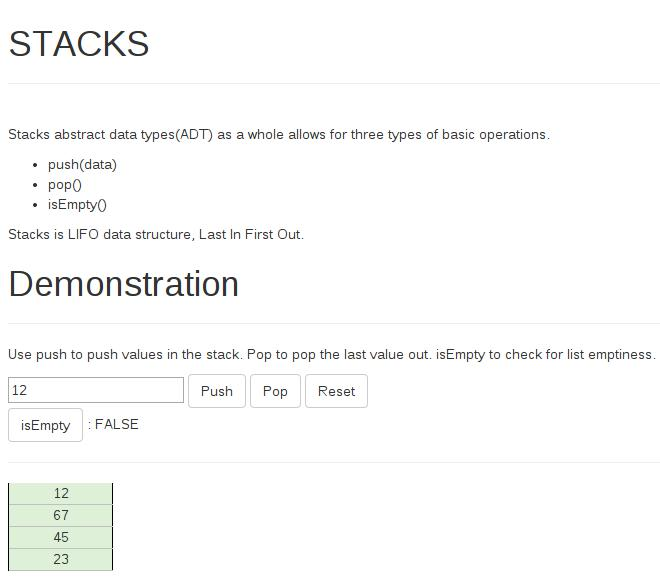
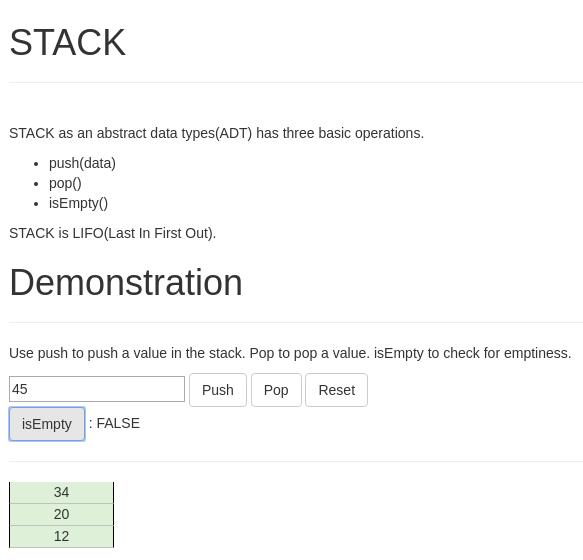
Add more info in README file, fix typos in mongo-stack.html, add a new image for stack-mongo.jpg

diff --git a/mongo-stack/mongo-stack.html b/mongo-stack/mongo-stack.html
@@ -1,6 +1,5 @@
 <head>
   <title>mongo-stack</title>
-  
   <link href="//maxcdn.bootstrapcdn.com/bootstrap/3.3.1/css/bootstrap.min.css" rel="stylesheet">
 </head>
 
@@ -9,46 +8,45 @@
 </body>
 
 <template name="example">
-	
-  <h1>STACKS</h1>
+
+  <h1>STACK</h1>
   <hr>
   <br>
-  Stacks abstract data types(ADT) as a whole allows for three types of basic operations.
-  
+  STACK as an abstract data types(ADT) has three basic operations.
+
   <p style="indent: 15px;">
-	<ul>
-		<li>push(data)</li>
-		<li>pop()</li>
-		<li>isEmpty()</li>
-	</ul>
+  <ul>
+    <li>push(data)</li>
+    <li>pop()</li>
+    <li>isEmpty()</li>
+  </ul>
   </p>
-  
+
   <p>
-  Stacks is LIFO data structure, Last In First Out.
+  STACK is LIFO(Last In First Out).
   </p>
-  
+
   <h1>Demonstration</h1>
   <hr>
-  <p>Use push to push values in the stack. Pop to pop the last value out. isEmpty to check for
-  list emptiness.
+  <p>Use push to push a value in the stack. Pop to pop a value. isEmpty to check for emptiness.
   </p>
-  
+
   <input type="input" id="pushValue" />   
   <input type="button" class="btn btn-default"  id="push" value="Push"/>
   <input type="button" class="btn btn-default"  id="pop" value="Pop"/>
   <input type="button"  class="btn btn-default" id="reset" value="Reset"/>
-  
+
   <br>
   <input type="button" class="btn btn-default"  id="isEmpty" value="isEmpty"/>
   : <span id="isEmptyStatus"> </span>
   <br>
-  
+
   <!--
-  <input type="button" class="btn btn-default" type="button" id="peek" value="Peek"/>
-  :<span id="peekValue"> </span>
+    <input type="button" class="btn btn-default" type="button" id="peek" value="Peek"/>
+    :<span id="peekValue"> </span>
   -->
 
- 
+
   <hr>
   {{>printStack}}
 </template>

diff --git a/README.md b/README.md
@@ -16,3 +16,18 @@ Plot of interval time of insertion of each element using ...
  java.kumar116.LinkedList | java.util.LinkedList
 :--------------------------------------------------:|:-----------------------------------------------------:
 ![Plot of LinkedList when using simple O(1) insertion](https://github.com/kumar116/cs251/blob/master/archive/LinkedList/plot_ll_loop.png?raw=true "Plot of LinkedList when using simple O(1) insertion") | ![Plot of LinkedList when using java.util's LinkedList](https://github.com/kumar116/cs251/blob/master/archive/LinkedList/plot_ll_java.png?raw=true "Plot of LinkedList when using java.util's LinkedList")
+
+##Stack
+
+**Usage**
++ push(T data) - Add any generic data to the stack
++ pop() - Get and remove the data at the top
++ size() - Returns the size of the stack/Can be used to find if the Stack is empty.
+
+**Notes**
+
+NoSQL database(for example MongoDB) can be used to store and make any kind of data structure, but what can it be used for ?
+
+To try a demonstration, do meteor run inside mongo-stack folder.
+
+![Mongo Stack](https://github.com/kumar116/DT/blob/master/mongo-stack/stack-mongo.jpg?raw=true "Mongo Stack")
